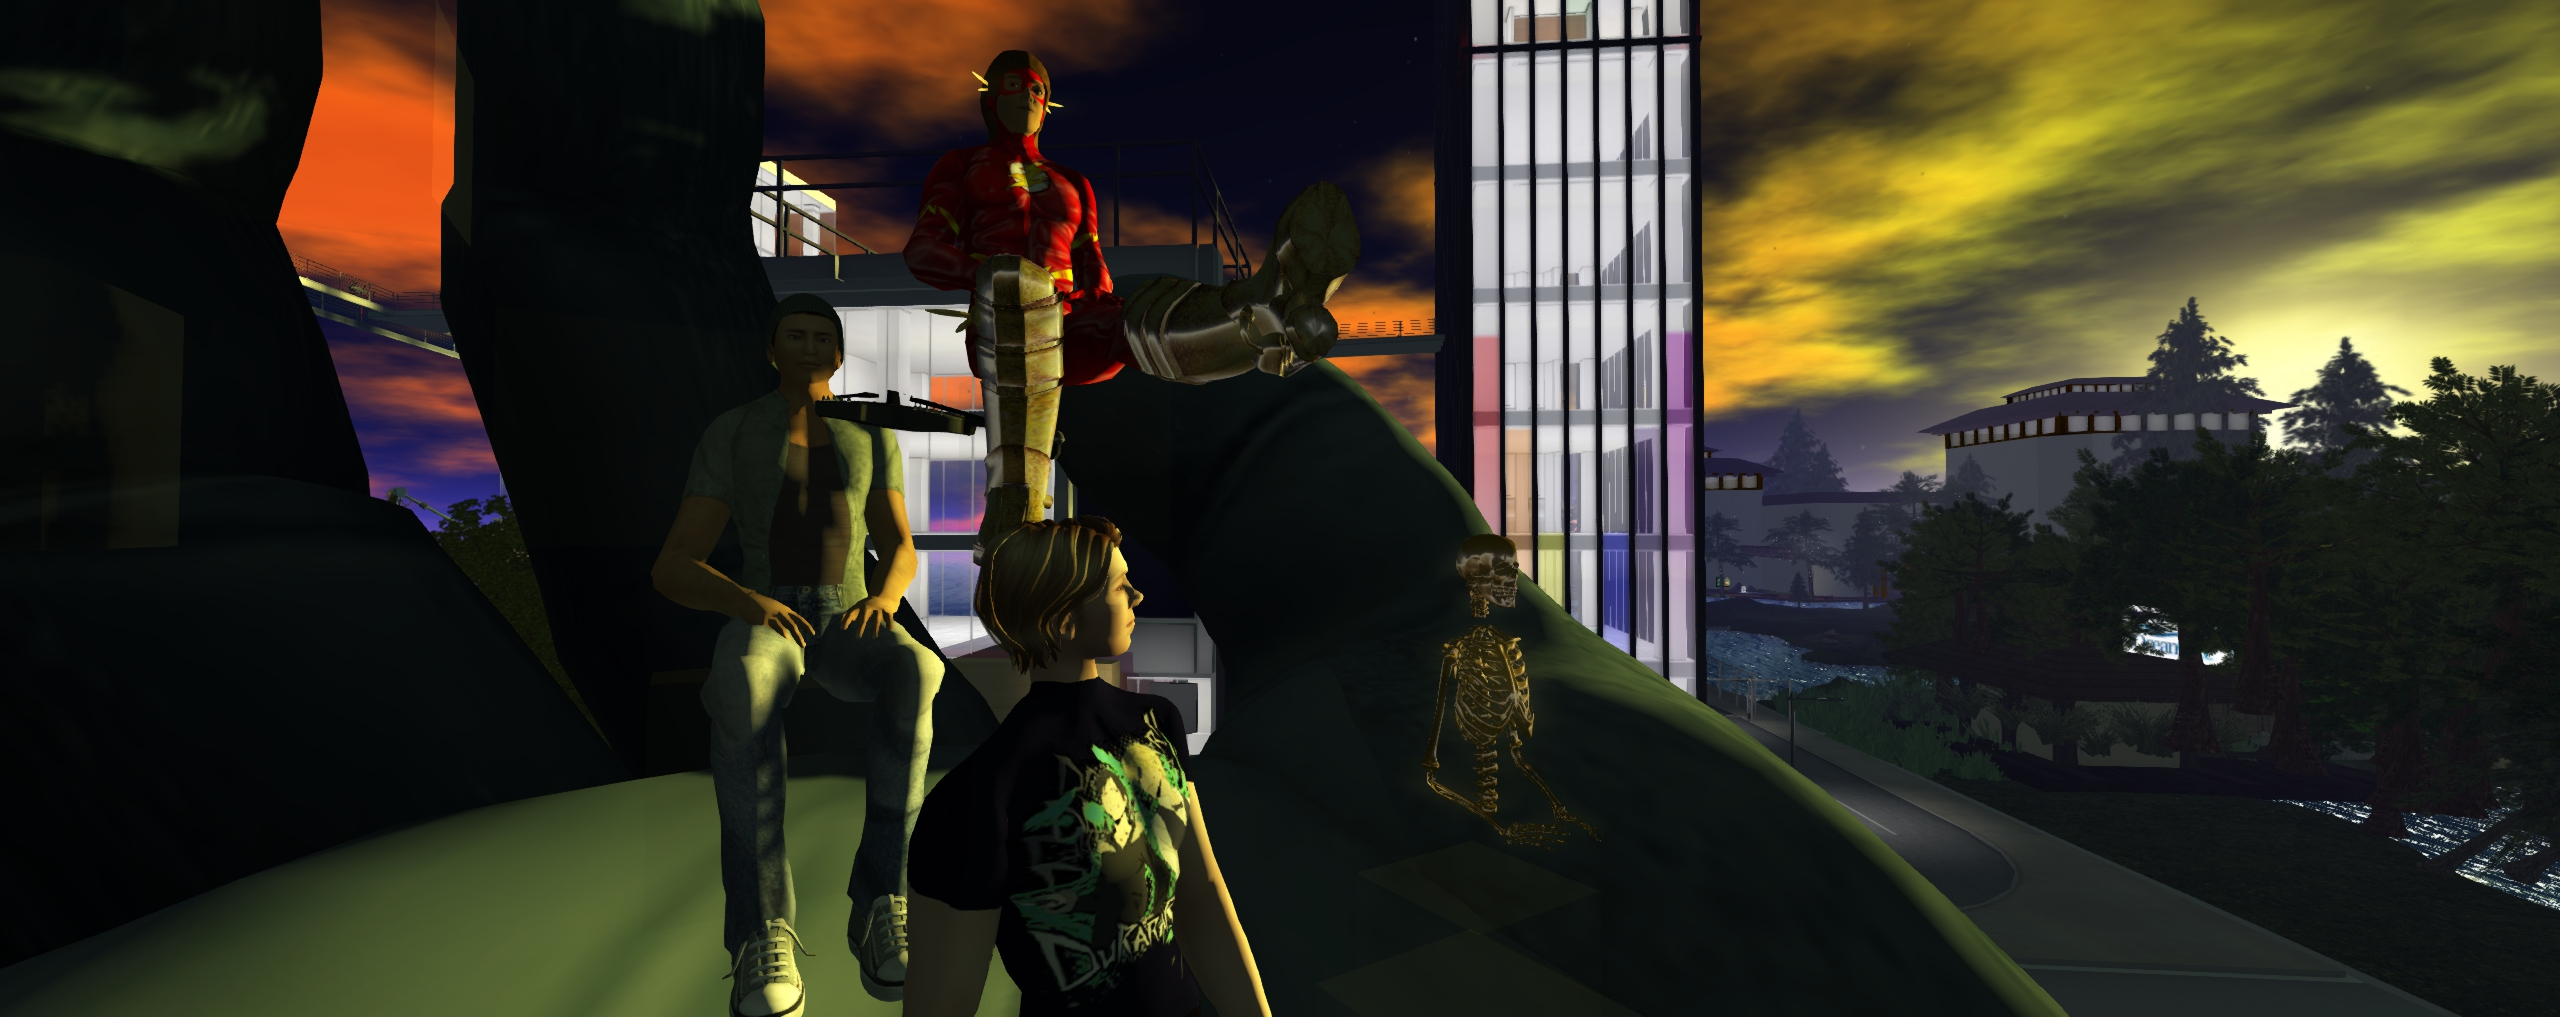
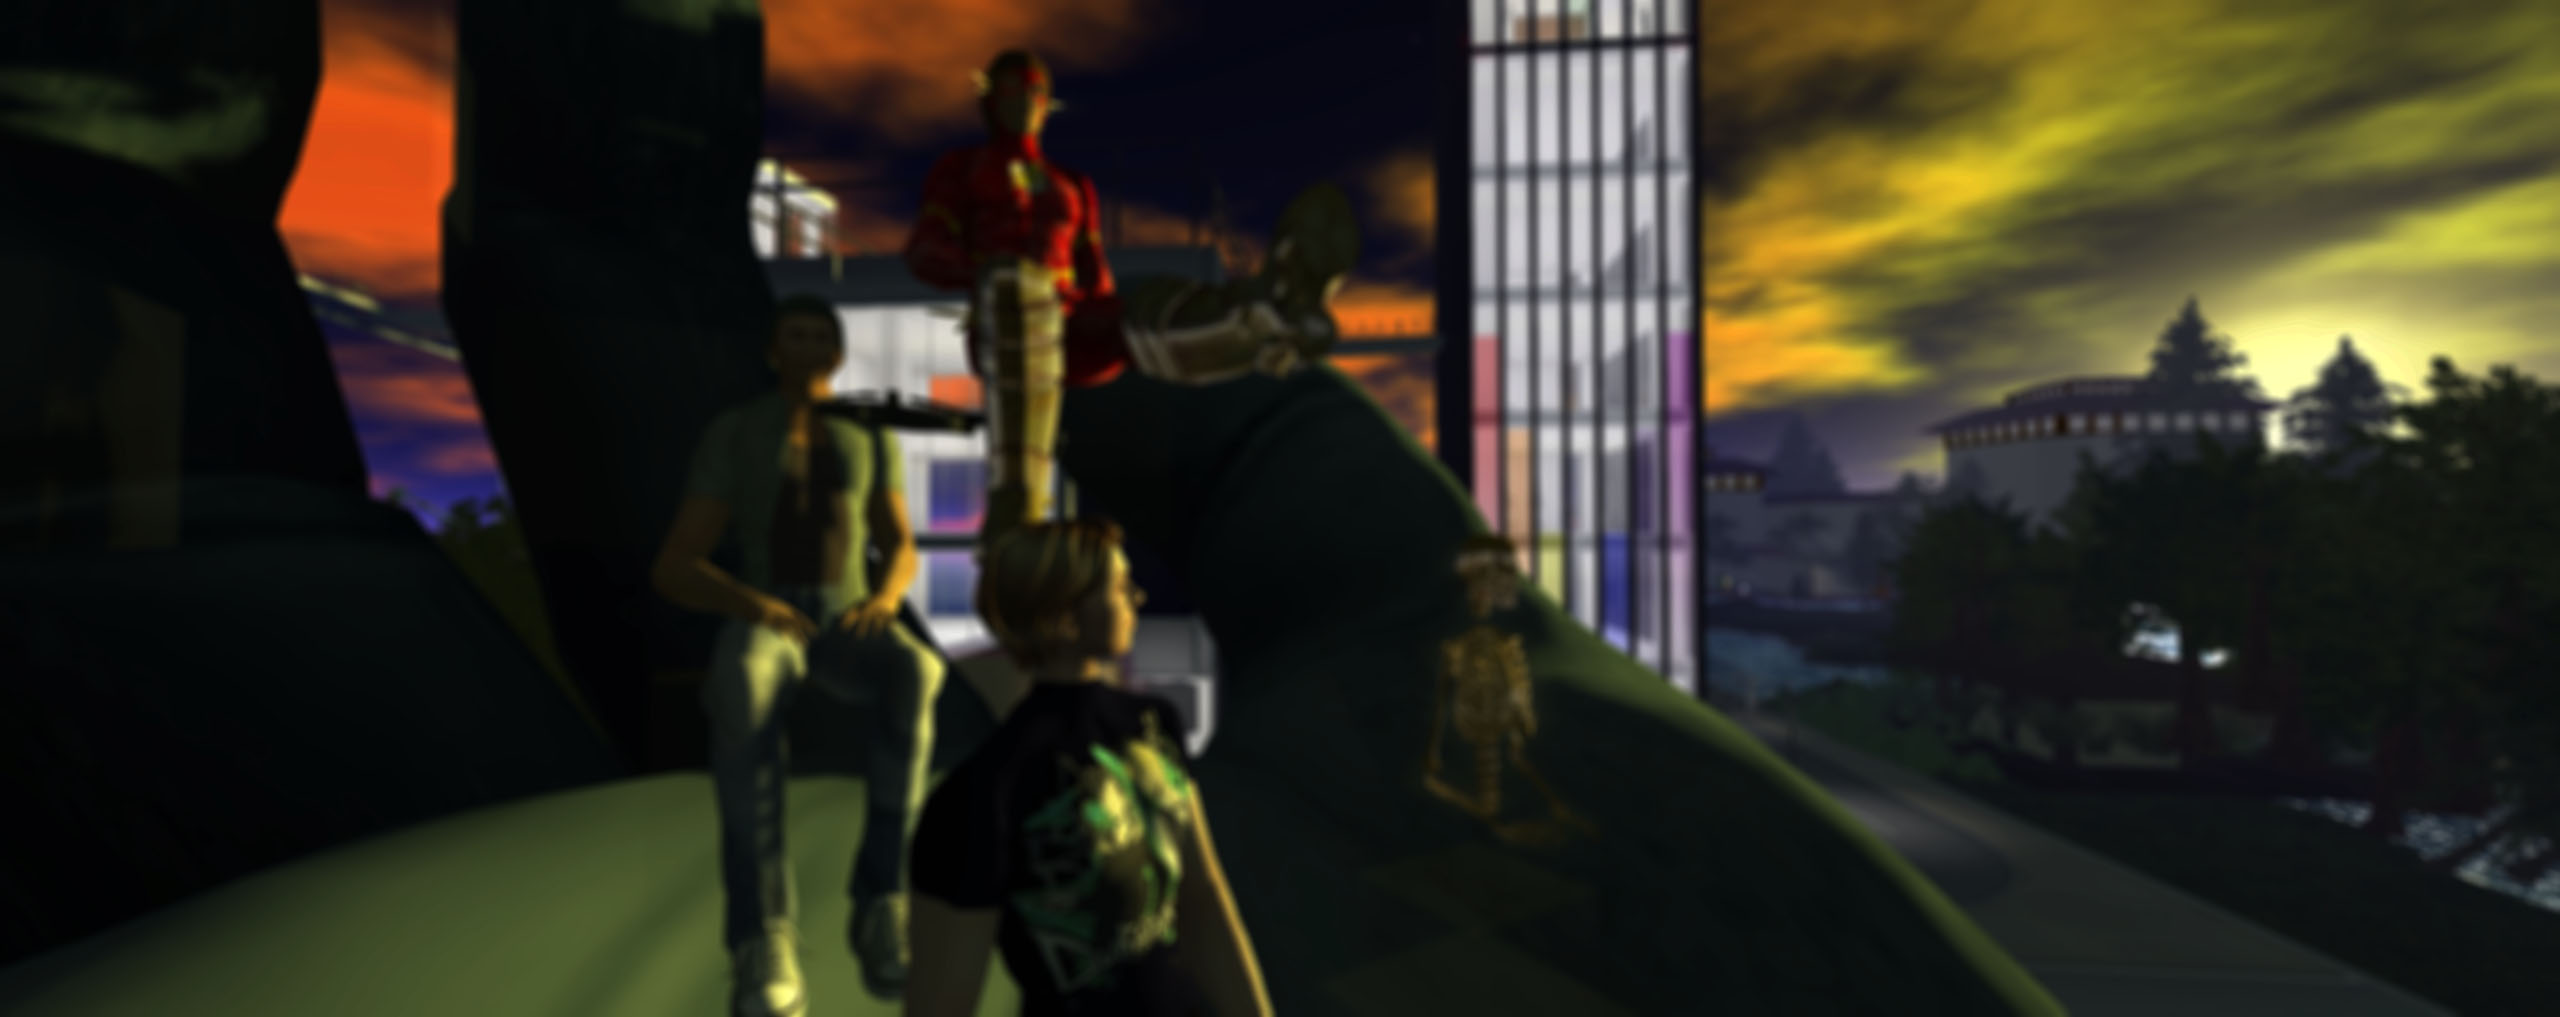
updated header for blur. updated index information.

diff --git a/index.html b/index.html
@@ -79,8 +79,9 @@
             <div class="header-content-inner">
                 <h1>i467 Studios Presents: VRCC</h1>
                 <hr>
-                <p>Virtual Reality Comic-Con(VRCC) is the next step towards integrating Virtual Reality with Comics for a
-					truly immersive experience. Try our  VR app for the maximum effect!
+                <p>VIP Opening: Thursday, June 9th, 6PM</p>
+				
+				<p>Public Opening: Summer Solsice, June 20th, 3:34PM
 				</p>
                 <a href="#about" class="btn btn-primary btn-xl page-scroll">Download Now!</a>
             </div>
@@ -94,14 +95,9 @@
                     <h2 class="section-heading">About</h2>
                     <hr class="light">
                     <p class="text-faded">
-						Paragraph about the project! Link to Credits here.
-						Lorem Ipsum is simply dummy text of the printing and typesetting industry. 
-						Lorem Ipsum has been the industry's standard dummy text ever since the 1500s, 
-						when an unknown printer took a galley of type and scrambled it to make a type specimen book. 
-						It has survived not only five centuries, but also the leap into electronic typesetting, 
-						remaining essentially unchanged. 
+						Virtual Reality Comic-Con (VRCC) was built by the students of the Information School at the University of Washington. It explores the possibilities that a virtual environment affords in augmenting a popular experience. What would Comic-Con look like in Virtual Reality? We invite you to come find out!
 					</p>
-                    <a href="#" class="btn btn-default btn-xl">Get Started!</a>
+                    <a href="#" class="btn btn-default btn-xl">Check out our team!</a>
                 </div>
             </div>
         </div>
